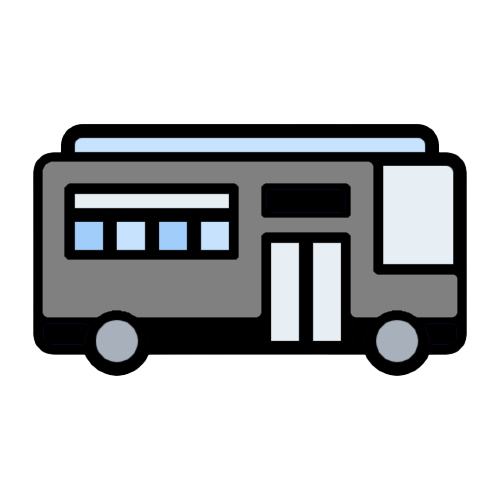
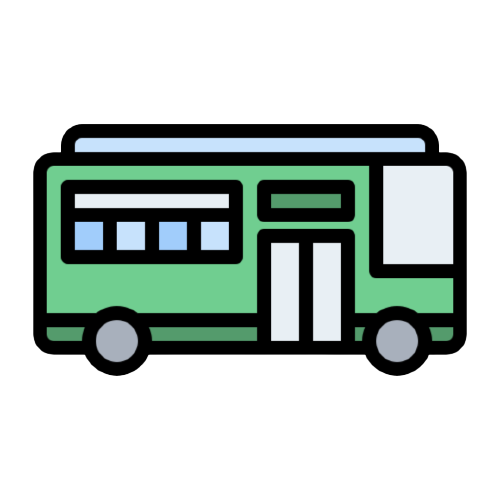
Fix : 이미지 깨짐 현상 해결

Changed region(s): [[0.06, 0.3, 0.93, 0.69]]

diff --git a/lib/view/search.dart b/lib/view/search.dart
@@ -64,31 +64,31 @@ class _SearchState extends State<Search>  with TickerProviderStateMixin{
 
   getColor(String color){
     if(color == "직행좌석형시내버스"){
-      colors = Image.network("https://media.discordapp.net/attachments/905797523363483659/1139884238708146236/green_bus.png?width=460&height=460");
+      colors = Image.asset("assets/red_bus.png");
     }else if(color == "좌석형시내버스"){
-      colors = Image.network("https://media.discordapp.net/attachments/905797523363483659/1139893877604618260/green_bus.png?width=460&height=460");
+      colors = Image.asset("assets/red_bus.png");
     }else if(color == "일반형시내버스"){
-      colors = Image.network("https://media.discordapp.net/attachments/905797523363483659/1116366006969962626/green_bus.png?width=432&height=432");
+      colors = Image.asset("assets/green_bus.png");
     }else if(color == "광역급행형시내버스"){
-      colors = Image.network("https://media.discordapp.net/attachments/905797523363483659/1139884238708146236/green_bus.png?width=460&height=460");
+      colors = Image.asset("assets/red_bus.png");
     }else if(color == "마을버스"){
-      colors = Image.network("https://media.discordapp.net/attachments/905797523363483659/1139884388683886623/green_bus.png?width=460&height=460");
+      colors = Image.asset("assets/yellow_bus.png");
     }else if(color == "따복형 시내버스"){
-      colors = Image.network("https://media.discordapp.net/attachments/905797523363483659/1116366006969962626/green_bus.png?width=432&height=432");
+      colors = Image.asset("assets/gray_bus.png");
     }else if(color == "직행좌석형농어촌버스"){
-      colors = Image.network("https://media.discordapp.net/attachments/905797523363483659/1139884238708146236/green_bus.png?width=460&height=460");
+      colors = Image.asset("assets/gray_bus.png");
     }else if(color == "좌석형농어촌버스"){
-      colors = Image.network("https://media.discordapp.net/attachments/905797523363483659/1116366006969962626/green_bus.png?width=432&height=432");
+      colors = Image.asset("assets/gray_bus.png");
     }else if(color == "일반형농어촌버스"){
-      colors = Image.network("https://media.discordapp.net/attachments/905797523363483659/1116366006969962626/green_bus.png?width=432&height=432");
+      colors = Image.asset("assets/gray_bus.png");
     }else if(color == "일반형시외버스"){
-      colors = Image.network("https://media.discordapp.net/attachments/905797523363483659/1116366006969962626/green_bus.png?width=432&height=432");
+      colors = Image.asset("assets/gray_bus.png");
     }else if(color == "리무진형 공항버스"){
-      colors = Image.network("https://media.discordapp.net/attachments/905797523363483659/1139894619291799562/green_bus.png?width=460&height=460");
+      colors = Image.asset("assets/gray_bus.png");
     }else if(color == "좌석형 공항버스"){
-      colors = Image.network("https://media.discordapp.net/attachments/905797523363483659/1139894619291799562/green_bus.png?width=460&height=460");
+      colors = Image.asset("assets/gray_bus.png");
     }else{
-      colors = Image.network("https://media.discordapp.net/attachments/905797523363483659/1139894619291799562/green_bus.png?width=460&height=460");
+      colors = Image.asset("assets/gray_bus.png");
     }
     return colors;
   }
@@ -544,31 +544,29 @@ class _SearchState extends State<Search>  with TickerProviderStateMixin{
                                     children: [
                                       Container(
                                         padding: EdgeInsets.only(left: 20,right: 30),
-                                        child: Image.network("https://media.discordapp.net/attachments/905797523363483659/1116527200972308560/bus-stop.png?width=432&height=432",scale: 10,),
+                                        child: Image.asset("assets/bus-stop.png",scale: 10,),
                                       ),
-                                      Container(
-                                          child:Column(
-                                            crossAxisAlignment: CrossAxisAlignment.start,
-                                            children: [
-                                              Container(
-                                                padding: EdgeInsets.only(top: 10,right: 10),
-                                                width: MediaQuery.of(context).size.width - 140,
-                                                child: Text(
-                                                  "${stationdatas[i]['stationName']}",
-                                                  style: TextStyle(color: Colors.white,fontSize: 20),
-                                                  overflow: TextOverflow.ellipsis,
-                                                ),
-                                              ),
-                                              Container(
-                                                padding: EdgeInsets.only(right: 10),
-                                                child: Text(
-                                                  "정류장코드 : ${stationdatas[i]['mobileNo'] ?? "정보없음"} (${stationdatas[i]['regionName']})",
-                                                  style: TextStyle(color: Colors.white,fontSize: 15),
-                                                  overflow: TextOverflow.ellipsis,
-                                                ),
-                                              )
-                                            ],
+                                      Column(
+                                        crossAxisAlignment: CrossAxisAlignment.start,
+                                        children: [
+                                          Container(
+                                            padding: EdgeInsets.only(top: 10,right: 10),
+                                            width: MediaQuery.of(context).size.width - 140,
+                                            child: Text(
+                                              "${stationdatas[i]['stationName']}",
+                                              style: TextStyle(color: Colors.white,fontSize: 20),
+                                              overflow: TextOverflow.ellipsis,
+                                            ),
+                                          ),
+                                          Container(
+                                            padding: EdgeInsets.only(right: 10),
+                                            child: Text(
+                                              "정류장코드 : ${stationdatas[i]['mobileNo'] ?? "정보없음"} (${stationdatas[i]['regionName']})",
+                                              style: TextStyle(color: Colors.white,fontSize: 15),
+                                              overflow: TextOverflow.ellipsis,
+                                            ),
                                           )
+                                        ],
                                       ),
                                     ],
                                   )

diff --git a/lib/view/manyfind.dart b/lib/view/manyfind.dart
@@ -61,31 +61,31 @@ class _ManyFindState extends State<ManyFind> with TickerProviderStateMixin{
 
   getColor(String color){
     if(color == "직행좌석형시내버스"){
-      colors = Image.network("https://media.discordapp.net/attachments/905797523363483659/1139884238708146236/green_bus.png?width=460&height=460");
+      colors = Image.network("https://media.discordapp.net/attachments/905797523363483659/1139884238708146236/gray_bus.png?width=460&height=460");
     }else if(color == "좌석형시내버스"){
-      colors = Image.network("https://media.discordapp.net/attachments/905797523363483659/1139893877604618260/green_bus.png?width=460&height=460");
+      colors = Image.network("https://media.discordapp.net/attachments/905797523363483659/1139893877604618260/gray_bus.png?width=460&height=460");
     }else if(color == "일반형시내버스"){
-      colors = Image.network("https://media.discordapp.net/attachments/905797523363483659/1116366006969962626/green_bus.png?width=432&height=432");
+      colors = Image.network("https://media.discordapp.net/attachments/905797523363483659/1116366006969962626/gray_bus.png?width=432&height=432");
     }else if(color == "광역급행형시내버스"){
-      colors = Image.network("https://media.discordapp.net/attachments/905797523363483659/1139884238708146236/green_bus.png?width=460&height=460");
+      colors = Image.network("https://media.discordapp.net/attachments/905797523363483659/1139884238708146236/gray_bus.png?width=460&height=460");
     }else if(color == "마을버스"){
-      colors = Image.network("https://media.discordapp.net/attachments/905797523363483659/1139884388683886623/green_bus.png?width=460&height=460");
+      colors = Image.network("https://media.discordapp.net/attachments/905797523363483659/1139884388683886623/gray_bus.png?width=460&height=460");
     }else if(color == "따복형 시내버스"){
-      colors = Image.network("https://media.discordapp.net/attachments/905797523363483659/1116366006969962626/green_bus.png?width=432&height=432");
+      colors = Image.network("https://media.discordapp.net/attachments/905797523363483659/1116366006969962626/gray_bus.png?width=432&height=432");
     }else if(color == "직행좌석형농어촌버스"){
-      colors = Image.network("https://media.discordapp.net/attachments/905797523363483659/1139884238708146236/green_bus.png?width=460&height=460");
+      colors = Image.network("https://media.discordapp.net/attachments/905797523363483659/1139884238708146236/gray_bus.png?width=460&height=460");
     }else if(color == "좌석형농어촌버스"){
-      colors = Image.network("https://media.discordapp.net/attachments/905797523363483659/1116366006969962626/green_bus.png?width=432&height=432");
+      colors = Image.network("https://media.discordapp.net/attachments/905797523363483659/1116366006969962626/gray_bus.png?width=432&height=432");
     }else if(color == "일반형농어촌버스"){
-      colors = Image.network("https://media.discordapp.net/attachments/905797523363483659/1116366006969962626/green_bus.png?width=432&height=432");
+      colors = Image.network("https://media.discordapp.net/attachments/905797523363483659/1116366006969962626/gray_bus.png?width=432&height=432");
     }else if(color == "일반형시외버스"){
-      colors = Image.network("https://media.discordapp.net/attachments/905797523363483659/1116366006969962626/green_bus.png?width=432&height=432");
+      colors = Image.network("https://media.discordapp.net/attachments/905797523363483659/1116366006969962626/gray_bus.png?width=432&height=432");
     }else if(color == "리무진형 공항버스"){
-      colors = Image.network("https://media.discordapp.net/attachments/905797523363483659/1139894619291799562/green_bus.png?width=460&height=460");
+      colors = Image.network("https://media.discordapp.net/attachments/905797523363483659/1139894619291799562/gray_bus.png?width=460&height=460");
     }else if(color == "좌석형 공항버스"){
-      colors = Image.network("https://media.discordapp.net/attachments/905797523363483659/1139894619291799562/green_bus.png?width=460&height=460");
+      colors = Image.network("https://media.discordapp.net/attachments/905797523363483659/1139894619291799562/gray_bus.png?width=460&height=460");
     }else{
-      colors = Image.network("https://media.discordapp.net/attachments/905797523363483659/1139894619291799562/green_bus.png?width=460&height=460");
+      colors = Image.network("https://media.discordapp.net/attachments/905797523363483659/1139894619291799562/gray_bus.png?width=460&height=460");
     }
     return colors;
   }

diff --git a/lib/result/busline_result.dart b/lib/result/busline_result.dart
@@ -63,7 +63,8 @@ class _BusLine_Result_viewState extends State<BusLine_Result_view> with SingleTi
     // TODO: implement initState
     super.initState();
 
-    timer = Timer.periodic(Duration(seconds: 30), (Timer timer) async{
+    timer = Timer.periodic(Duration(seconds: 10), (Timer timer) async{
+      print("10초마다 데이터 다시 가져오기");
         bus_position.clear();
         var result;
         try{
@@ -301,8 +302,8 @@ class _BusLine_Result_viewState extends State<BusLine_Result_view> with SingleTi
                                     margin: EdgeInsets.only(left: 60),
                                     padding: EdgeInsets.zero,
                                     child: Image(
-                                      image: NetworkImage(
-                                          "https://media.discordapp.net/attachments/905797523363483659/1140636007180542062/-001_4.png?width=460&height=460"
+                                      image: AssetImage(
+                                          'assets/start.png'
                                       ),
                                       fit: BoxFit.fill,
                                     )
@@ -314,8 +315,8 @@ class _BusLine_Result_viewState extends State<BusLine_Result_view> with SingleTi
                                     margin: EdgeInsets.only(left: 60),
                                     padding: EdgeInsets.zero,
                                     child: Image(
-                                      image: NetworkImage(
-                                          "https://media.discordapp.net/attachments/905797523363483659/1140636006903722095/-001_5.png?width=460&height=460"
+                                      image: AssetImage(
+                                          'assets/last.png'
                                       ),
                                       fit: BoxFit.fill,
                                     )
@@ -327,8 +328,8 @@ class _BusLine_Result_viewState extends State<BusLine_Result_view> with SingleTi
                                     margin: EdgeInsets.only(left: 60),
                                     padding: EdgeInsets.zero,
                                     child: Image(
-                                      image: NetworkImage(
-                                          "https://media.discordapp.net/attachments/905797523363483659/1140636824918831205/-001_6.png?width=460&height=460"
+                                      image: AssetImage(
+                                          'assets/turn.png'
                                       ),
                                       fit: BoxFit.fill,
                                     )
@@ -340,8 +341,8 @@ class _BusLine_Result_viewState extends State<BusLine_Result_view> with SingleTi
                                       margin: EdgeInsets.only(left: 60),
                                       padding: EdgeInsets.zero,
                                       child: Image(
-                                        image: NetworkImage(
-                                            "https://media.discordapp.net/attachments/905797523363483659/1140625711326048346/-001_1.png?width=460&height=460"
+                                        image: AssetImage(
+                                            'assets/line.png'
                                         ),
                                         fit: BoxFit.fill,
                                       )
@@ -417,7 +418,7 @@ class _BusLine_Result_viewState extends State<BusLine_Result_view> with SingleTi
                                 alignment: Alignment.centerLeft,
                                 width: 40,
                                 height: 65,
-                                child: Image.network("https://media.discordapp.net/attachments/905797523363483659/1141336135893798964/-001_1.png?width=460&height=460"),
+                                child: Image.asset("assets/bus_icon.png"),
                               ),
                             ],
                           )

diff --git a/lib/result/result.dart b/lib/result/result.dart
@@ -55,31 +55,31 @@ class _Result_viewState extends State<Result_view> {
 
   getColor(String color){
     if(color == "직행좌석형시내버스"){
-      colors = Image.network("https://media.discordapp.net/attachments/905797523363483659/1139884238708146236/green_bus.png?width=460&height=460");
+      colors = Image.asset("assets/red_bus.png");
     }else if(color == "좌석형시내버스"){
-      colors = Image.network("https://media.discordapp.net/attachments/905797523363483659/1139893877604618260/green_bus.png?width=460&height=460");
+      colors = Image.asset("assets/red_bus.png");
     }else if(color == "일반형시내버스"){
-      colors = Image.network("https://media.discordapp.net/attachments/905797523363483659/1116366006969962626/green_bus.png?width=432&height=432");
+      colors = Image.asset("assets/green_bus.png");
     }else if(color == "광역급행형시내버스"){
-      colors = Image.network("https://media.discordapp.net/attachments/905797523363483659/1139884238708146236/green_bus.png?width=460&height=460");
+      colors = Image.asset("assets/red_bus.png");
     }else if(color == "마을버스"){
-      colors = Image.network("https://media.discordapp.net/attachments/905797523363483659/1139884388683886623/green_bus.png?width=460&height=460");
+      colors = Image.asset("assets/yellow_bus.png");
     }else if(color == "따복형 시내버스"){
-      colors = Image.network("https://media.discordapp.net/attachments/905797523363483659/1116366006969962626/green_bus.png?width=432&height=432");
+      colors = Image.asset("assets/gray_bus.png");
     }else if(color == "직행좌석형농어촌버스"){
-      colors = Image.network("https://media.discordapp.net/attachments/905797523363483659/1139884238708146236/green_bus.png?width=460&height=460");
+      colors = Image.asset("assets/gray_bus.png");
     }else if(color == "좌석형농어촌버스"){
-      colors = Image.network("https://media.discordapp.net/attachments/905797523363483659/1116366006969962626/green_bus.png?width=432&height=432");
+      colors = Image.asset("assets/gray_bus.png");
     }else if(color == "일반형농어촌버스"){
-      colors = Image.network("https://media.discordapp.net/attachments/905797523363483659/1116366006969962626/green_bus.png?width=432&height=432");
+      colors = Image.asset("assets/gray_bus.png");
     }else if(color == "일반형시외버스"){
-      colors = Image.network("https://media.discordapp.net/attachments/905797523363483659/1116366006969962626/green_bus.png?width=432&height=432");
+      colors = Image.asset("assets/gray_bus.png");
     }else if(color == "리무진형 공항버스"){
-      colors = Image.network("https://media.discordapp.net/attachments/905797523363483659/1139894619291799562/green_bus.png?width=460&height=460");
+      colors = Image.asset("assets/gray_bus.png");
     }else if(color == "좌석형 공항버스"){
-      colors = Image.network("https://media.discordapp.net/attachments/905797523363483659/1139894619291799562/green_bus.png?width=460&height=460");
+      colors = Image.asset("assets/gray_bus.png");
     }else{
-      colors = Image.network("https://media.discordapp.net/attachments/905797523363483659/1139894619291799562/green_bus.png?width=460&height=460");
+      colors = Image.asset("assets/gray_bus.png");
     }
     return colors;
   }

diff --git a/lib/view/main.dart b/lib/view/main.dart
@@ -112,13 +112,13 @@ class _HomesState extends State<Homes> {
                     child: Column(
                       children: [
                         Expanded(
-                            child: Container(
+                            child: SizedBox(
                               width: double.infinity,
                               child: Row(
                                 children: [
                                   Container(
                                     margin: EdgeInsets.only(left: 20,right: 15),
-                                    child: Image.network("https://media.discordapp.net/attachments/905797523363483659/1139884238708146236/green_bus.png?width=460&height=460",scale: 5,),
+                                    child: Image.asset("assets/red_bus.png",scale: 5,),
                                   ),
                                   Column(
                                     mainAxisAlignment: MainAxisAlignment.center,
@@ -132,13 +132,13 @@ class _HomesState extends State<Homes> {
                             ),
                         ),
                         Expanded(
-                          child: Container(
+                          child: SizedBox(
                             width: double.infinity,
                             child: Row(
                               children: [
                                 Container(
                                   margin: EdgeInsets.only(left: 20,right: 15),
-                                  child: Image.network("https://media.discordapp.net/attachments/905797523363483659/1116366006969962626/green_bus.png?width=432&height=432",scale: 5,),
+                                  child: Image.asset("assets/green_bus.png",scale: 5,),
                                 ),
                                 Column(
                                   mainAxisAlignment: MainAxisAlignment.center,
@@ -155,13 +155,13 @@ class _HomesState extends State<Homes> {
                           ),
                         ),
                         Expanded(
-                          child: Container(
+                          child: SizedBox(
                             width: double.infinity,
                             child: Row(
                               children: [
                                 Container(
                                   margin: EdgeInsets.only(left: 20,right: 15),
-                                  child: Image.network("https://media.discordapp.net/attachments/905797523363483659/1139884388683886623/green_bus.png?width=460&height=460",scale: 5,),
+                                  child: Image.asset("assets/yellow_bus.png",scale: 5,),
                                 ),
                                 Column(
                                   mainAxisAlignment: MainAxisAlignment.center,

diff --git a/lib/view/kakaomap.dart b/lib/view/kakaomap.dart
@@ -55,7 +55,7 @@ void KakaoDialog(context,station_info) {
                 showZoomControl: true,
                 zoomLevel: 3,
                 overlayText: "Text",
-                markerImageURL: 'https://media.discordapp.net/attachments/905797523363483659/1139879005844160622/-001.png',
+                markerImageURL: 'https://media.discordapp.net/attachments/905797523363483659/1237417461356298393/-001.png?ex=663b9250&is=663a40d0&hm=a0d78da21a3b9c22b768fddc9fc9c51fb7f41f0626dc1a168fa135c8ec7bd35b&=&format=webp&quality=lossless&width=424&height=424',
                 customScript: '''
                 var markers = [];
             

diff --git a/lib/main.dart b/lib/main.dart
@@ -54,7 +54,7 @@ class _MyAppState extends State<MyApp> {
               padding: EdgeInsets.fromLTRB(0, 26, 0, 0),
               width:250,
               height: 200,
-              child: Image.network("https://media.discordapp.net/attachments/905797523363483659/1116317186177368064/header_logo.png?width=500&height=125"),
+              child: Image.asset('assets/header_logo.png'),
             ),
           ),
       ),
